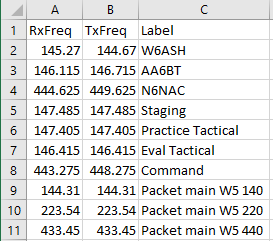
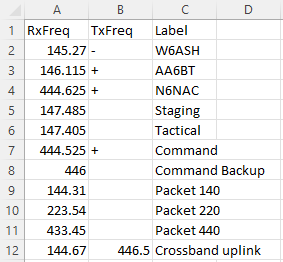
Updated example CSV file to include + and -

diff --git a/hamim/templates/hamim/about.html b/hamim/templates/hamim/about.html
@@ -11,8 +11,11 @@
       The only input is a CSV file with two columns listing the frequencies
       planned for your event. The column headers must include "RxFreq" and
       "TxFreq" for your receiving and transmitting frequencies, respectively.
-      Any other columns will be ignored. In the example below, the column
-      labeled "Label" will be ignored.
+      For repeater channels, the TxFreq column can use the shorthand notation
+      "+" or "-" to indicate your repeater offset direction, and HamIM will
+      compute the transmit frequency. For simplex channels, the TxFreq column
+      can remain blank. Any other columns will be ignored. In the example below,
+      the column labeled "Label" will be ignored.
       <center><figure class="figure">
         <img src="{% static 'CSVExample.png' %}" class="shadow mb-2">
         <figcaption class="figure-caption">Example CSV file</figcaption>
